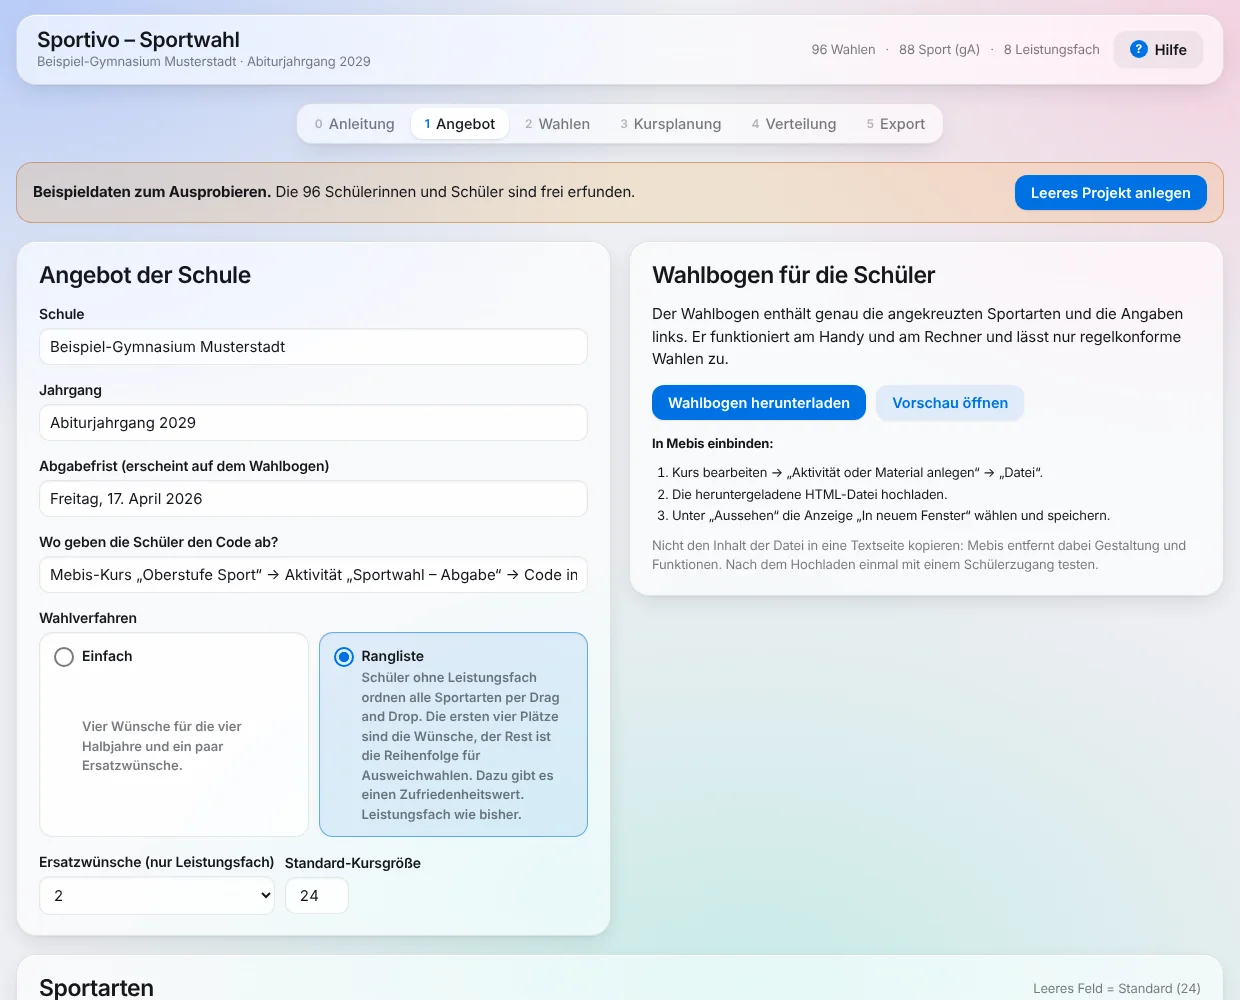
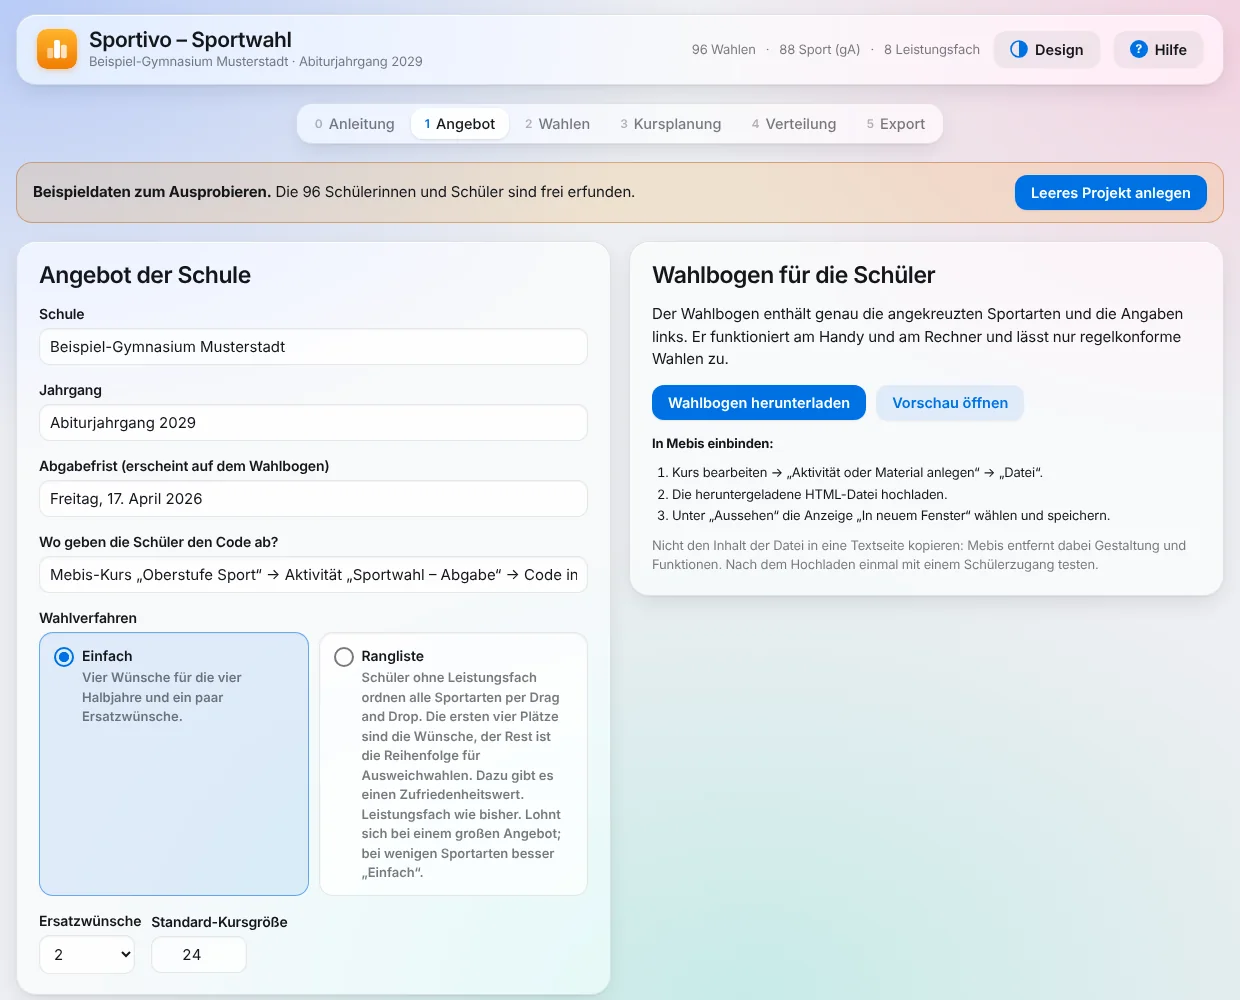
Sportivo-Seite: neue Bildschirmfotos aus 1.6.0, Neuverteilung der 13 erwähnt, Version 1.6.0
Claude-Session: https://claude.ai/code/session_01EyFA8mhJYUs7GoTtbSxCbK

diff --git a/sportwahl/index.html b/sportwahl/index.html
@@ -40,7 +40,7 @@
 <a class="crumb" href="../#programme">Programme / Sportivo</a>
 <div class="ah"><div><div class="id"><img src="../assets/img/sportwahl-icon.svg?v=151a6d50" alt="Sportivo App-Symbol" width="72" height="72" style="view-transition-name:ic-sportivo"><span class="badge">Version 1.6.0</span></div><h1>Die Sportwahl der Oberstufe, an <span class="hl">einem Ort</span></h1></div>
 <div class="r"><p>Sportivo begleitet die Sportartenwahl für die Jahrgangsstufen 12 und 13 im neunjährigen Gymnasium: von der Wahl über Mebis bis zu fertigen Kurslisten.</p><div class="btns"><a class="btn" href="app.html">Sportivo öffnen</a><a class="btn sec" href="#ablauf">So läuft es</a></div><p class="small">Kostenlos, direkt im Browser. Mit Beispieldaten zum Ausprobieren.</p></div></div>
-<div class="app-stage"><div class="laptop"><div class="scr"><img src="../assets/img/sportwahl-kursplanung.webp?v=54f616ca" alt="Sportivo: Kursangebot je Halbjahr mit Nachfrage und Plätzen" width="1440" height="900" decoding="async"></div><div class="base"></div></div></div>
+<div class="app-stage"><div class="laptop"><div class="scr"><img src="../assets/img/sportwahl-kursplanung.webp?v=fb42b943" alt="Sportivo: Kursangebot je Halbjahr mit Nachfrage und Plätzen" width="1440" height="900" decoding="async"></div><div class="base"></div></div></div>
 <div class="facts"><div><b>Für</b><span>Q12 und Q13 im G9</span></div><div><b>Läuft</b><span>im Browser</span></div><div><b>Daten</b><span>nur in Ihrem Browser</span></div><div><b>Preis</b><span>kostenlos</span></div></div>
 <section class="s" id="ablauf" style="scroll-margin-top:90px"><h2>Wahl über Mebis, Planung hier</h2><p class="lead">Die Schülerinnen und Schüler brauchen weder Konto noch App. Alles, was sie eingeben, läuft über die gewohnten Mebis-Kurse. Jeder Schritt ist in Sportivo unter „Hilfe“ erklärt.</p>
 <ol class="steps five"><li><h3>Angebot festlegen</h3><p>Sportarten und Kursgrößen Ihrer Schule, bei Bedarf je Halbjahr verschieden.</p></li>
@@ -48,8 +48,8 @@
 <li><h3>Codes abgeben</h3><p>Die Schüler fügen ihren Code in eine Mebis-Aktivität „Feedback“ ein.</p></li>
 <li><h3>Planen und verteilen</h3><p>Antworten einlesen, Kursangebot vorschlagen lassen, automatisch verteilen und nachsteuern.</p></li>
 <li><h3>Weitergeben</h3><p>Kurslisten als PDF, CSV für Excel und ASV, Projektdatei für die Oberstufenkoordination.</p></li></ol></section><div class="fx"><div class="tx"><h2>Zwei Wahlverfahren</h2><p><b>Einfach:</b> vier Wünsche für die vier Halbjahre plus Ersatzwünsche.</p><p><b>Rangliste:</b> Schüler ohne Leistungsfach ordnen alle angebotenen Sportarten per Ziehen. Die ersten vier Plätze sind die Wünsche, der Rest ist die Reihenfolge für Ausweichwahlen.</p><ul class="ticks"><li>Kursgrößen je Halbjahr</li><li>Vorrang oder eigener Kurs für das Leistungsfach</li><li>Zufriedenheitswert je Schüler</li></ul></div>
-<div class="pic"><img src="../assets/img/sportwahl-angebot.webp?v=1185fa4a" alt="Sportivo: Angebot der Schule mit Wahlverfahren Einfach oder Rangliste" width="1240" height="1000" loading="lazy" decoding="async"></div></div><div class="fx rev"><div class="tx"><h2>Regelkonform verteilt</h2><p>Sportivo verteilt möglichst nach Wunsch und hält dabei die Regeln ein. Einzelne Schüler lassen sich von Hand umsetzen. Verstößt eine Zuteilung von Hand gegen eine Regel, zeigt Sportivo eine Warnung mit dem Grund.</p><ul class="ticks"><li>Warnleiste mit allen Regelverstößen</li><li>„Nur diese zeigen“ filtert die betroffenen Schüler</li><li>Kurslisten als PDF, je Kurs eine Seite</li></ul></div>
-<div class="pic t"><img src="../assets/img/sportwahl-verteilung.webp?v=a6288084" alt="Sportivo: Kurslisten nach der automatischen Verteilung" width="1240" height="1000" loading="lazy" decoding="async"></div></div><div class="fx"><div class="tx"><h2>Auswertung als PDF</h2><p>Zwei Seiten zum Ausdrucken oder Weitergeben an die Fachschaft: erfüllte Wünsche, Nachfrage und Plätze je Sportart, Auslastung je Halbjahr und die Kursplanung mit Hinweisen, wo ein zusätzlicher Kurs helfen würde. Design (fünf zur Wahl), Hell oder Dunkel und Schrift wählst du selbst; sie gelten auch für den Wahlbogen und die Auswertung, die Kurslisten bleiben immer gleich.</p></div>
+<div class="pic"><img src="../assets/img/sportwahl-angebot.webp?v=4f26bc72" alt="Sportivo: Angebot der Schule mit Wahlverfahren Einfach oder Rangliste" width="1240" height="1000" loading="lazy" decoding="async"></div></div><div class="fx rev"><div class="tx"><h2>Regelkonform verteilt</h2><p>Sportivo verteilt möglichst nach Wunsch und hält dabei die Regeln ein. Einzelne Schüler lassen sich von Hand umsetzen. Verstößt eine Zuteilung von Hand gegen eine Regel, zeigt Sportivo eine Warnung mit dem Grund.</p><ul class="ticks"><li>Warnleiste mit allen Regelverstößen</li><li>„Nur diese zeigen“ filtert die betroffenen Schüler</li><li>Kurslisten als PDF, je Kurs eine Seite</li><li>Nach der 12: die 13 neu verteilen, ohne die 12 zu ändern, auch wenn Schüler wegfallen oder dazukommen</li></ul></div>
+<div class="pic t"><img src="../assets/img/sportwahl-verteilung.webp?v=b70c8985" alt="Sportivo: Kurslisten nach der automatischen Verteilung" width="1240" height="1000" loading="lazy" decoding="async"></div></div><div class="fx"><div class="tx"><h2>Auswertung als PDF</h2><p>Zwei Seiten zum Ausdrucken oder Weitergeben an die Fachschaft: erfüllte Wünsche, Nachfrage und Plätze je Sportart, Auslastung je Halbjahr und die Kursplanung mit Hinweisen, wo ein zusätzlicher Kurs helfen würde. Design (fünf zur Wahl), Hell oder Dunkel und Schrift wählst du selbst; sie gelten auch für den Wahlbogen und die Auswertung, die Kurslisten bleiben immer gleich.</p></div>
 <div class="pic"><img src="../assets/img/sportwahl-auswertung.webp?v=7bd24bc6" alt="Sportivo: Auswertung als PDF mit Kennzahlen, Nachfrage je Sportart und Kursplanung" width="1240" height="1000" loading="lazy" decoding="async"></div></div><section class="s"><div class="two"><div><h2>Wo liegen die Daten?</h2></div><div>
 <p>Die Seite wird einmal geladen, danach rechnet und speichert alles <b>lokal in Ihrem Browser</b>. Es werden keine Namen oder Wahlen an diese Website oder an Dritte übertragen.</p>
 <p>Darum liegen die Daten nur in <b>diesem Browser auf diesem Gerät</b>. Wer den Browserverlauf samt Websitedaten löscht oder an Schulrechnern arbeitet, die beim Abmelden zurückgesetzt werden, verliert sie.</p>

diff --git a/index.html b/index.html
@@ -53,7 +53,7 @@
 <div class="meta"><div><h3 class="nm"><img src="assets/img/libretto-icon.png?v=ca2144a5" alt="" width="48" height="48">Libretto</h3><p>Noten führen und nach der GSO verrechnen, von der 5. Klasse bis Q13. Mit Notenschlüssel, Kalender, W-Seminar und sechs Farbwelten.</p><p class="small st">Mac und Windows, Beta 0.9.10</p></div><a class="btn" href="libretto/">Libretto ansehen</a></div></article><article class="panel a-voce" id="p-voce"><div class="pic"><img src="assets/img/voce-bewerten.webp?v=0cb9a8ae" alt="Voce: Bildschirmfoto" width="1440" height="900" loading="lazy" decoding="async"></div>
 <div class="meta"><div><h3 class="nm"><img src="assets/img/viva-icon.png?v=5c122626" alt="" width="48" height="48">Voce</h3><p>Mündliche Schulaufgaben planen, nach den Rastern für Bayern bewerten und den Bogen für jede Schülerin und jeden Schüler ausgeben.</p><p class="small st">Mac und Windows, Version 1.8.1</p></div><a class="btn" href="voce/">Voce ansehen</a></div></article><article class="panel a-foliva" id="p-foliva"><div class="pic"><img src="assets/img/foliva-editor.webp?v=d4088abc" alt="Foliva: Bildschirmfoto" width="1440" height="900" loading="lazy" decoding="async"></div>
 <div class="meta"><div><h3 class="nm"><img src="assets/img/foliva-icon.png?v=f124768c" alt="" width="48" height="48">Foliva</h3><p>Arbeitsblätter und Proben gestalten, mit Lösungsblatt auf Knopfdruck und mehr als 300 Vorlagen.</p><p class="small st">Mac und Windows, in Erprobung</p></div><a class="btn" href="foliva/">Foliva ansehen</a></div></article><article class="panel a-gruppo" id="p-gruppo"><div class="pic"><img src="assets/img/gruppen-bilden.webp?v=90c99e5a" alt="Gruppo: Bildschirmfoto" width="1440" height="900" loading="lazy" decoding="async"></div>
-<div class="meta"><div><h3 class="nm"><img src="assets/img/gruppen-icon.png?v=aac21aa5" alt="" width="48" height="48">Gruppo</h3><p>Zufällige, ausgewogene Gruppen mit einem Klick, dazu Timer, Uhr, Sitzplan und Tagesübersicht, groß am Beamer.</p><p class="small st">Mac und Windows, Version 1.2.0</p></div><a class="btn" href="gruppen/">Gruppo ansehen</a></div></article><article class="panel a-sportivo" id="p-sportivo"><div class="pic"><img src="assets/img/sportwahl-verteilung.webp?v=a6288084" alt="Sportivo: Bildschirmfoto" width="1240" height="1000" loading="lazy" decoding="async"></div>
+<div class="meta"><div><h3 class="nm"><img src="assets/img/gruppen-icon.png?v=aac21aa5" alt="" width="48" height="48">Gruppo</h3><p>Zufällige, ausgewogene Gruppen mit einem Klick, dazu Timer, Uhr, Sitzplan und Tagesübersicht, groß am Beamer.</p><p class="small st">Mac und Windows, Version 1.2.0</p></div><a class="btn" href="gruppen/">Gruppo ansehen</a></div></article><article class="panel a-sportivo" id="p-sportivo"><div class="pic"><img src="assets/img/sportwahl-verteilung.webp?v=b70c8985" alt="Sportivo: Bildschirmfoto" width="1240" height="1000" loading="lazy" decoding="async"></div>
 <div class="meta"><div><h3 class="nm"><img src="assets/img/sportwahl-icon.svg?v=151a6d50" alt="" width="48" height="48">Sportivo</h3><p>Die Sportwahl der Oberstufe: Wahlbogen über Mebis, Kursplanung und Verteilung, mit Warnung bei Regelverstößen.</p><p class="small st">Im Browser, Version 1.6.0</p></div><a class="btn" href="sportwahl/">Sportivo ansehen</a></div></article><article class="panel a-namo" id="p-namo"><div class="pic ph"><img src="assets/img/namo-handys.webp?v=6c73c66f" alt="’namo.: Bildschirmfoto" width="1440" height="840" loading="lazy" decoding="async"></div>
 <div class="meta"><div><h3 class="nm"><img src="assets/img/namo-icon.png?v=f5d706c6" alt="" width="48" height="48">’namo.</h3><p>Klassenfahrten, Studienfahrten und andere Schülerfahrten organisieren: Programm, Zimmer, Tickets und Ansagen für die ganze Gruppe am Handy.</p><p class="small st">Handy und Browser, auf Anfrage</p></div><a class="btn" href="namo/">’namo. ansehen</a></div></article></div></div>
 </div></section>
